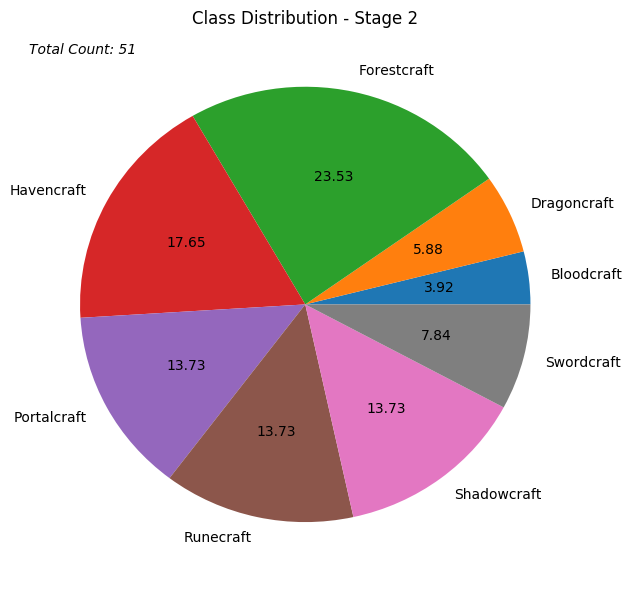
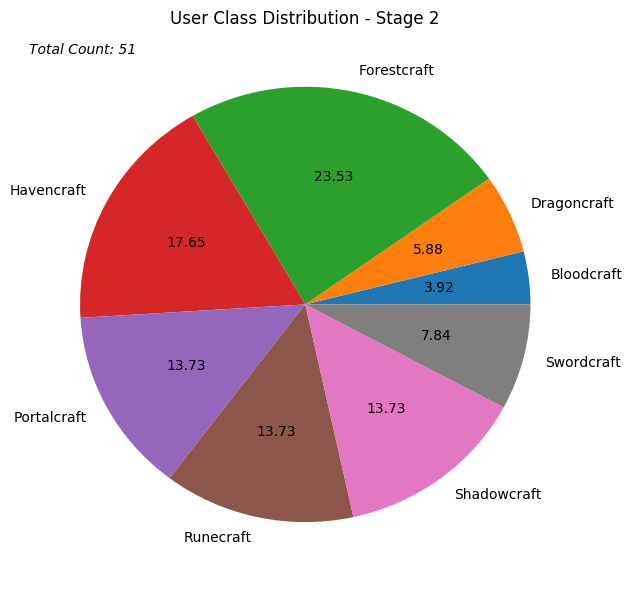
Fixed reddit tables Added total pie plot

Changed region(s): [[0.2706, 0.0, 0.6915, 0.061]]

diff --git a/analysis.py b/analysis.py
@@ -6,9 +6,9 @@ def analyze_horizontal(df, n, folder, stage_number):
 	path = 'Data/{}/plots_stage{}/'.format(folder, stage_number)
 	# ---- Single column distributions -----
 	rank_count = count_col(df, "Rank")
-	plot_pie(rank_count, "Rank Distribution - Stage {}".format(n), path+"pie_rank_count_s{}.png".format(n))
+	plot_pie(rank_count, "User Rank Distribution - Stage {}".format(n), path+"pie_rank_count_s{}.png".format(n))
 	class_count = count_col(df, "Class")
-	plot_pie(class_count, "Class Distribution - Stage {}".format(n), path+"pie_class_count_s{}.png".format(n))
+	plot_pie(class_count, "User Class Distribution - Stage {}".format(n), path+"pie_class_count_s{}.png".format(n))
 
 	# Rank by Class
 	rank_class = count_col(df, ['Rank', 'Class'])
@@ -22,10 +22,10 @@ def analyze_horizontal(df, n, folder, stage_number):
 	class_wins = count_col(df, ['Class', 'Wins'])
 	plot_bar(class_wins, "Wins per Class - Stage {}".format(n), path+'bar_class_vs_win_s{}.png'.format(n), groupby='Class')
 
-	# # Wins vs First or second
-	# if has_first(df):
-	# 	first_wins = count_col(df, ['Wins', 'First'])
-	# 	plot_bar(first_wins, "Times going First vs Wins- Stage {}".format(n), path+'bar_first_vs_win_s{}.png'.format(n), groupby='Wins', stack=False)
+	# Wins vs First or second
+	if has_first(df):
+		first_wins = count_col(df, ['Wins', 'First'])
+		plot_bar(first_wins, "Times going First vs Wins- Stage {}".format(n), path+'bar_first_vs_win_s{}.png'.format(n), groupby='Wins', stack=False)
 
 	# Get Links of good Decks
 	if 'Link' in df.columns:
@@ -37,6 +37,11 @@ def analyze_horizontal(df, n, folder, stage_number):
 def analyze_vertical(df, n, folder, stage_number):
 	classes = ['Shadowcraft', 'Runecraft', 'Forestcraft', 'Swordcraft', 'Dragoncraft', 'Havencraft', 'Portalcraft', 'Bloodcraft']
 	path = 'Data/{}/plots_stage{}/'.format(folder, stage_number)
+	
+	# Pie of total Usage
+	class_count = stack_and_count(df, ['Class', 'Class_o'])
+	plot_pie(class_count, "Total Class Distribution - Stage {}".format(n), path+"pie_total_class_count_s{}.png".format(n))
+	
 	for c in classes:
 		dfc = stack_match(df, c)   # Full
 		

diff --git a/tools.py b/tools.py
@@ -1,7 +1,7 @@
 import pandas as pd
 import matplotlib.pyplot as plt
 from matplotlib.font_manager import FontProperties
-
+import re
 
 def r_csv(path):
 	return pd.read_csv(str(path))
@@ -30,12 +30,17 @@ def has_first(df):
 def format_reddit_table(df, base_folder, stage_number):
 	reddit_table = df.to_csv(sep='|', index=False)
 
-	separator = '|'.join([':--' for _ in range(len(df.columns))])
+	separator = '|'.join([':-' for _ in range(len(df.columns))])
 	if reddit_table[0] == '|':
-		reddit_table = 'Index%s' % reddit_table
+		reddit_table = 'Index|%s' % reddit_table
 		separator += '|:--'
+	reddit_table = '|%s' % reddit_table
 
 	reddit_table = reddit_table.replace('\n', '\n%s\n' % separator, 1)
+	reddit_table = reddit_table.replace('\n', '|\n|')[:-2]
+	
+	reddit_table = re.sub(r'\|(http[^|]*)\|', r'|[Deck Link](\1)|', reddit_table)
+	reddit_table = re.sub(r'\|(\d)\.\d\|', r'|\1|', reddit_table)
 
 	path = 'Data/{}/reddit_table_{}.txt'.format(base_folder, stage_number)
 	with open(path, 'w') as file:
@@ -136,6 +141,16 @@ def best_decks_n(df, n=10, mincount=10):
 
 	return mean_col(df0, ['Class', 'Archetype'], 'Result').nlargest(n)
 
+
+def stack_and_count(df, to_stack):
+	if not isinstance(to_stack, list):
+		to_stack = [to_stack]
+	
+	stack_list = [df[col] for col in to_stack]
+	stacked = pd.concat(stack_list, 0)
+	count = pd.value_counts(stacked)
+	return count
+	
 
 # ------------------ Plots ------------------ #
 def plot_pie(df, title, filename, size=(6, 6)):
